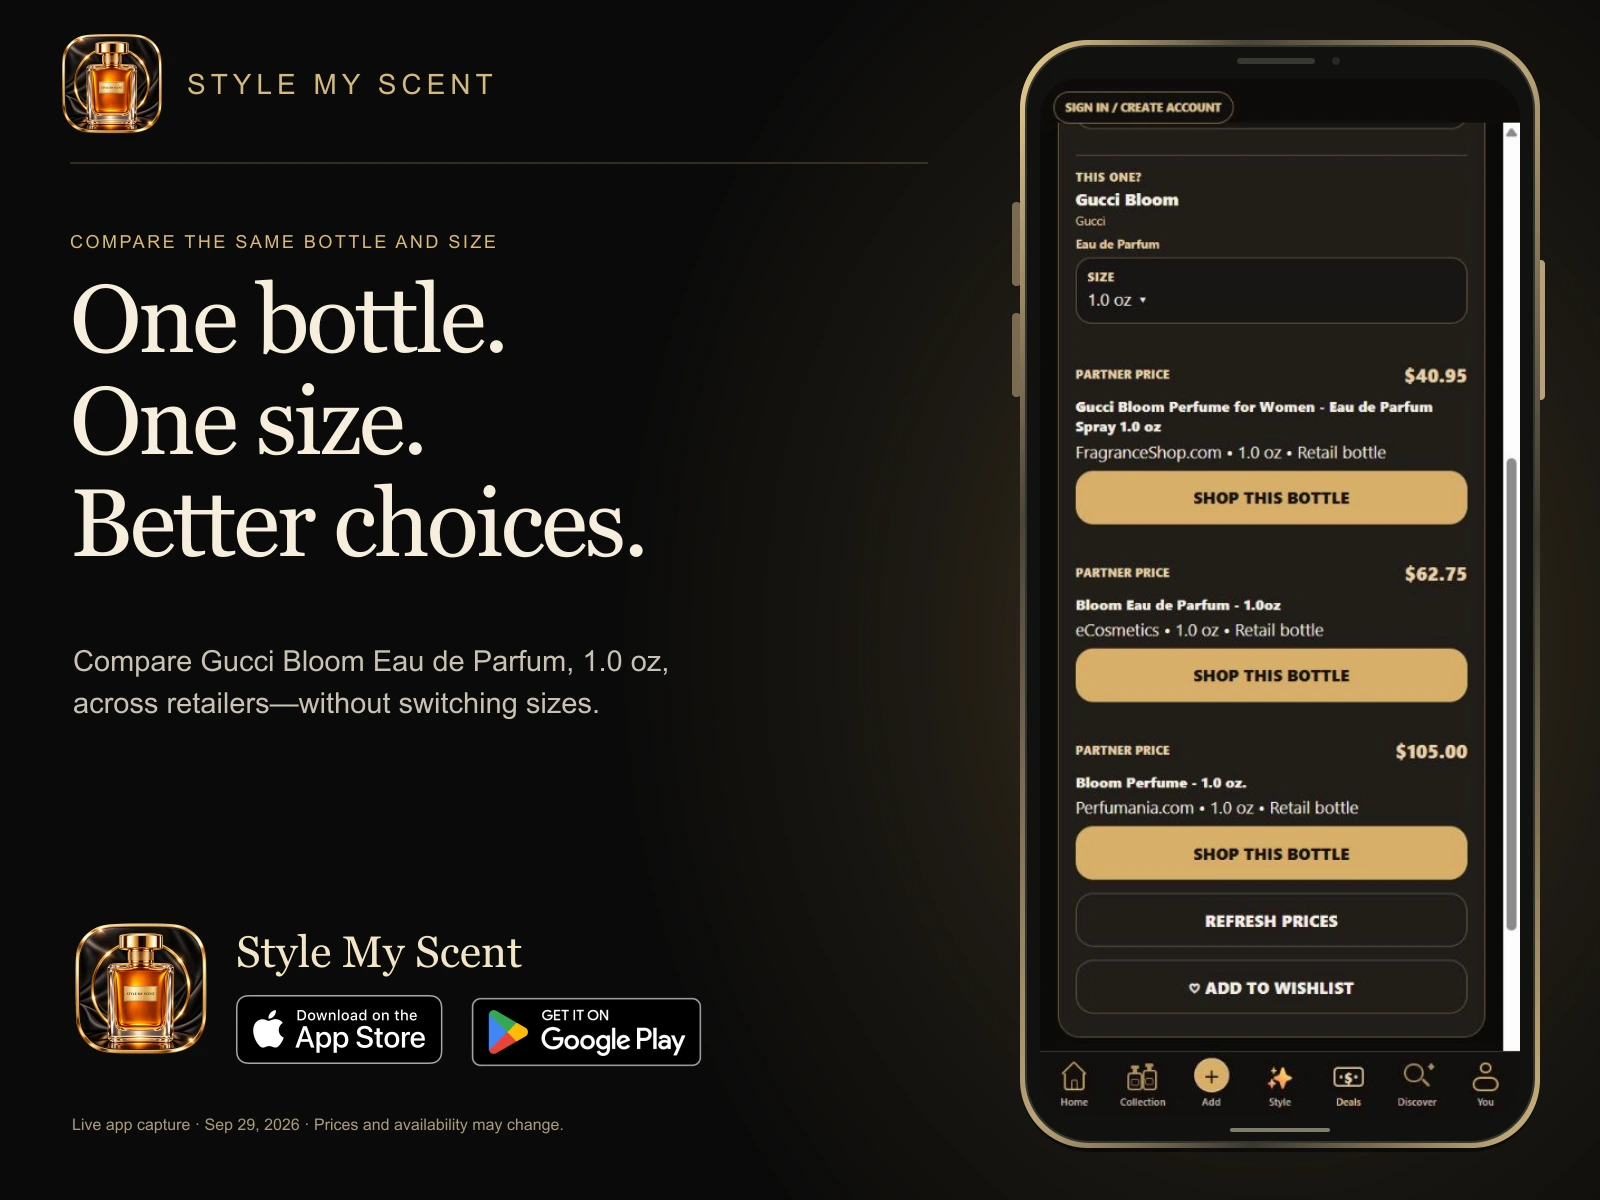
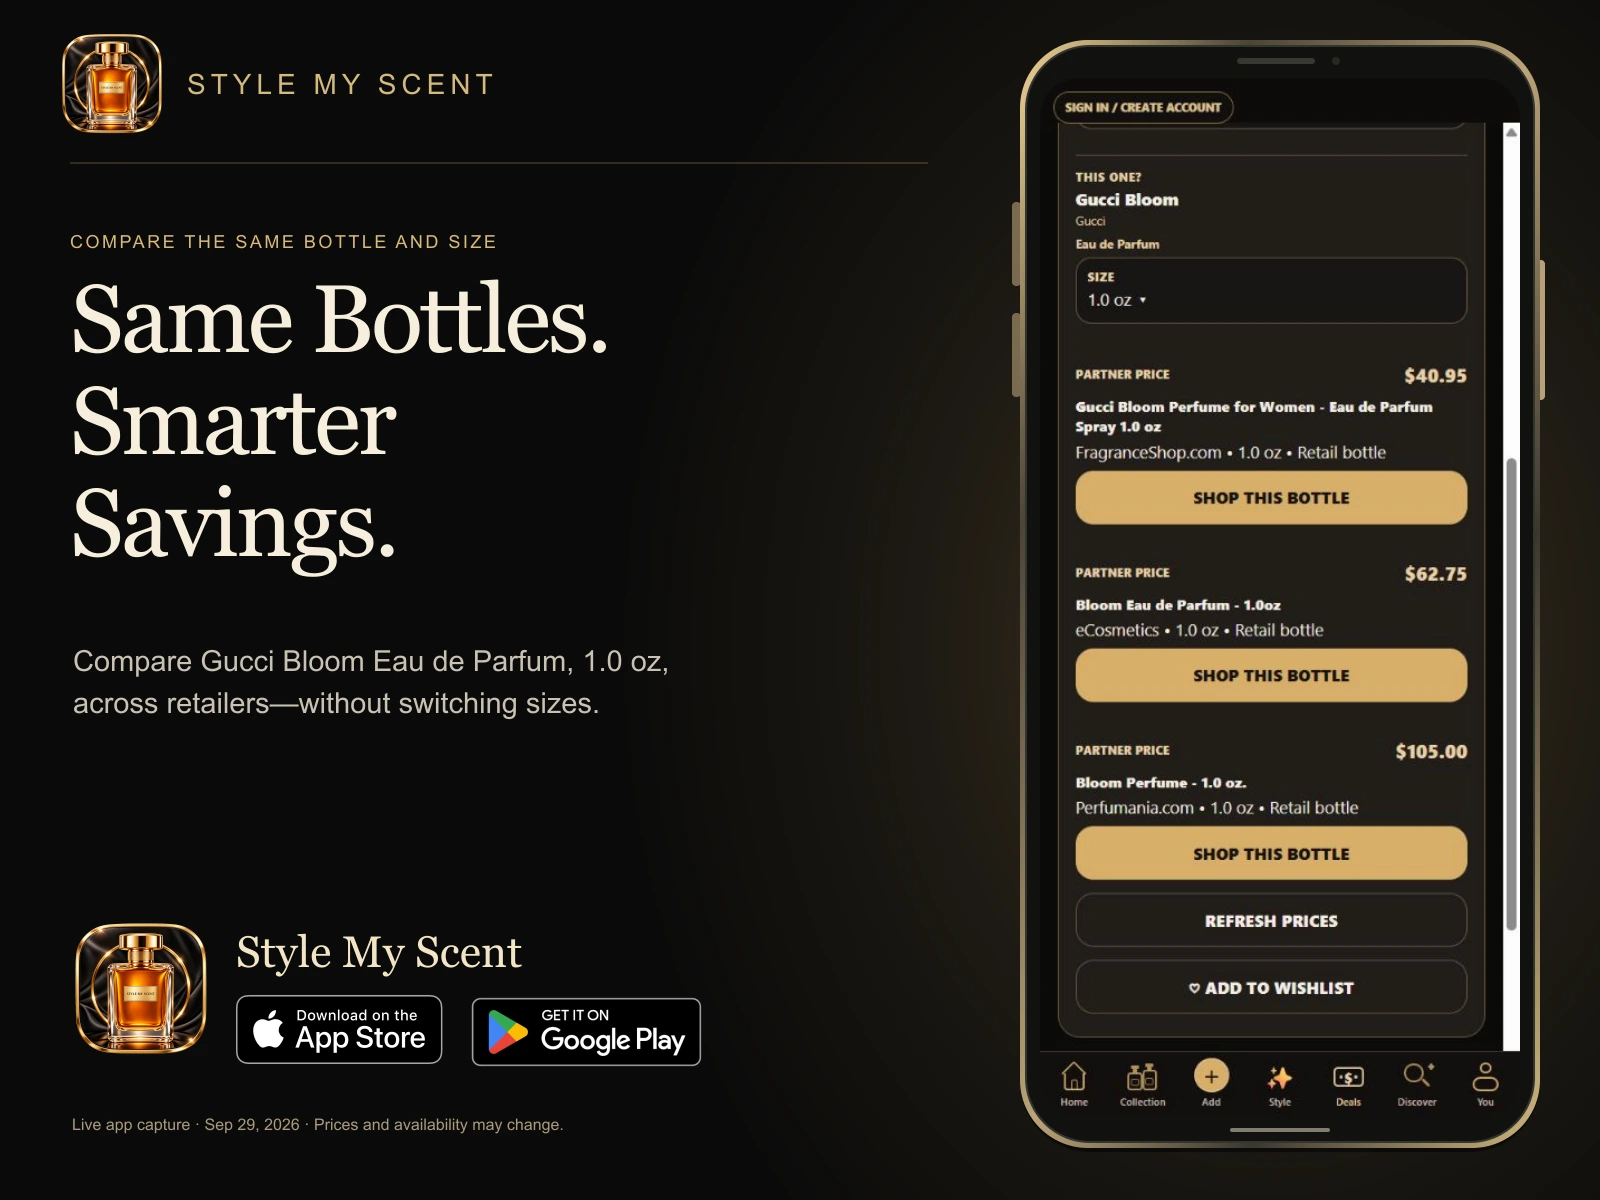
Refresh Deals headline to Same Bottles Smarter Savings

Changed region(s): [[0.0312, 0.2158, 0.4062, 0.4933]]

diff --git a/index.html b/index.html
@@ -184,7 +184,7 @@ footer{border-top:1px solid var(--line);padding:38px 0 48px;color:#9f9589;font-s
   <h2>A SCENT YOU WANT.<br><span class="gold">WITH THE SAVINGS YOU LOVE.</span></h2>
   <p>Save what you want and shop live through Style My Scent. We bring fragrance offers from our active partners together so you can spend less time searching store after store—and more time enjoying your collection.</p>
 
-  <figure class="app-feature-photo" id="preview-deals"><a href="assets/app-features/deals.webp" target="_blank" rel="noopener" aria-label="Open full-size image: Compare Gucci Bloom Eau de Parfum in the same 1 ounce size across three retailers"><img src="assets/app-features/deals.webp" alt="Compare Gucci Bloom Eau de Parfum in the same 1 ounce size across three retailers" width="1600" height="1200" loading="lazy" decoding="async"></a><figcaption>Tap the image to explore every detail. <a class="gold" href="#get-app">Get Style My Scent →</a></figcaption></figure>
+  <figure class="app-feature-photo" id="preview-deals"><a href="assets/app-features/deals.webp?v=smarter-savings" target="_blank" rel="noopener" aria-label="Open full-size image: Compare Gucci Bloom Eau de Parfum in the same 1 ounce size across three retailers"><img src="assets/app-features/deals.webp?v=smarter-savings" alt="Compare Gucci Bloom Eau de Parfum in the same 1 ounce size across three retailers" width="1600" height="1200" loading="lazy" decoding="async"></a><figcaption>Tap the image to explore every detail. <a class="gold" href="#get-app">Get Style My Scent →</a></figcaption></figure>
   <div class="shop-live-heading">
     <div class="eyebrow">Shop live with Style My Scent</div>
     <p style="font-size:14px;margin:0">Shop directly through our current partners. Partner links may earn Style My Scent a commission at no extra cost to you.</p>
